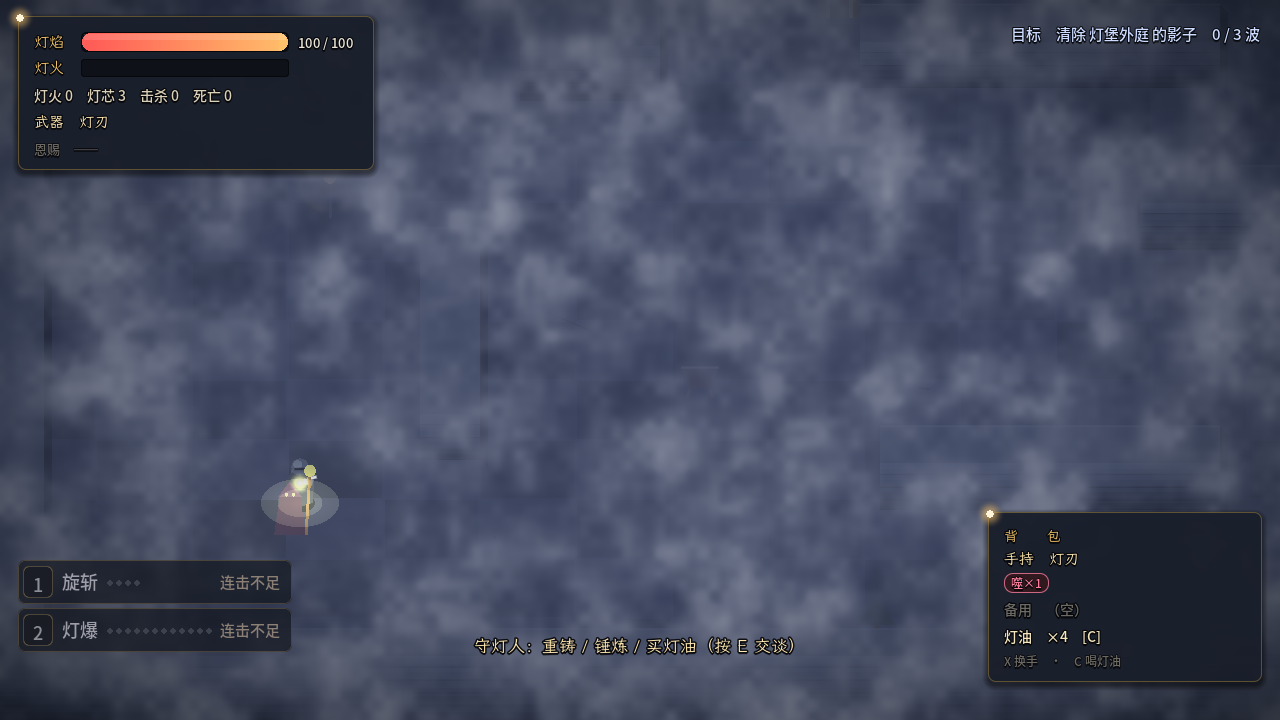
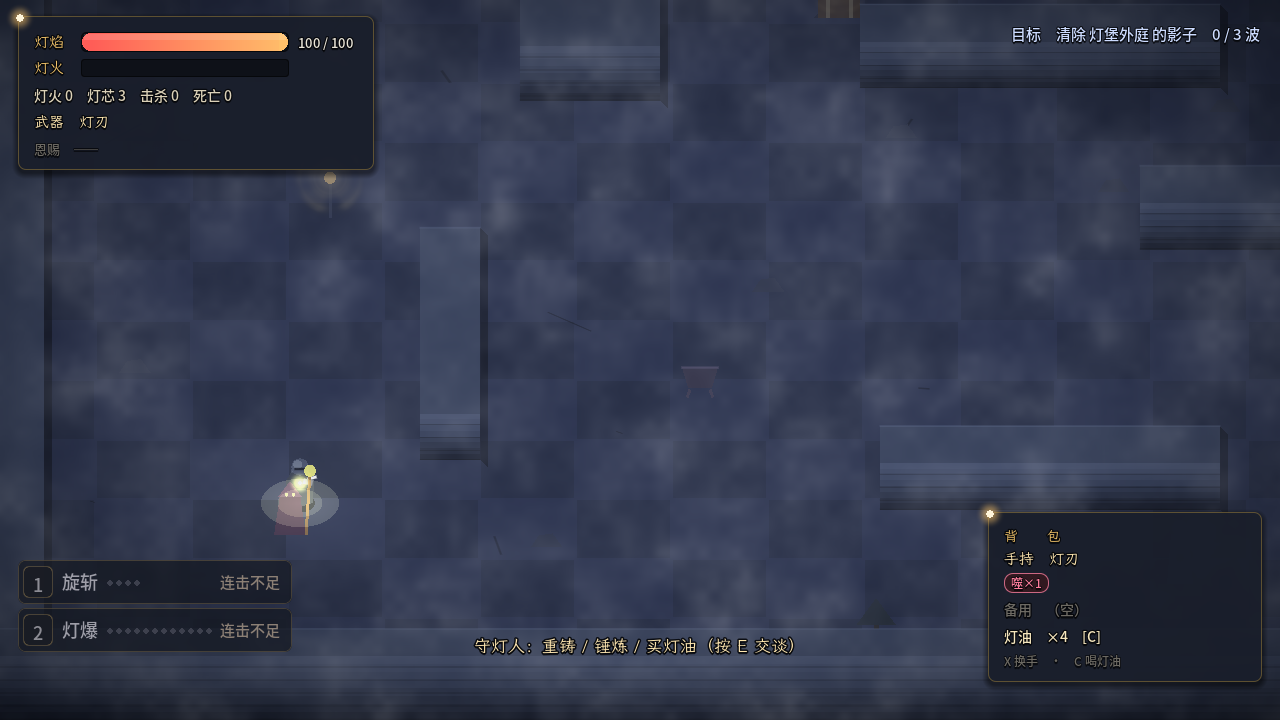
feat(godot): 迷雾调淡到 α=0.45，让灯照不到的地形重新读得出来
用户要「改淡一点，让地形可见」。这次没再拿眼睛试，而是先把这个数**量成一条曲线**再挑。

做法：**冻结世界 + 同一帧只拧一个 uniform**。世界本来就是纯手动推进的
（`main.manual = true` 时 `_process` 直接返回，只有 `advance()` 推步），
所以只要不调 `_pump()`、只改 `mist_max` 再重绘，逐像素上除雾浓之外没有第二个变量。
取样 0.30/0.40/0.45/0.50/0.60/0.70/0.85（连同已有的 1.00 与关雾），
临时插在 `_section_fog_night()` 里、取完图 `git checkout` 撤掉，探针代码不进提交。

同一块无 HUD / 无玩家光晕的地面（关雾为基线 42.5 / 3.90）：

  α      均值   局部对比度   与关雾图的高频相关性
  0      42.5   3.90(100%)   1.00
  0.40   62.1   2.78(71%)    0.93
  0.45   64.6   2.67(68%)    0.91   ← 取这里
  0.50   67.1   2.54(65%)    0.87
  0.60   72.0   2.38(61%)    0.79
  0.70   76.9   2.28(58%)    0.68
  1.00   91.2   2.21(57%)    0.23

两个结论：
1. **曲线在 0.70 以上是平的** —— 1.00 → 0.70 只买回 1% 的对比度，均值却从 91 掉到 77。
   也就是说"淡一点"如果只淡到 0.70，等于白改；有响应的是 0.45~0.50。
   → 调连续参数前先确认**它在这个区间才有响应**。
2. **指标选错会得出相反结论**：上一轮用的"局部对比度"会被雾**自己的**絮状纹理抬高 ——
   α=1.0 时还剩 57%，看着像"地形留了一半"，其实全是雾的絮。
   换成「雾开/雾关两张图**同一块高频分量**的相关性」之后判据才对：1.0 → 0.23、0.45 → 0.91。
   → 问"地形还剩多少"，参照物必须是**同一像素上的地形**。

全屏均值：关雾 0.158 → 开雾 0.2189（α=1.0 那轮是 0.2925）。
副产物：`night_delta_fog_on` 从 0.0086 回到 0.0363 —— 雾不那么遮夜色了；
这条口径本来就已与雾浓解耦，所以断言不用跟着动。

验证：
- 自检 358/358，errors 0，连跑两遍 report.json 逐字节相同
  （新基线 md5 8368deda0f49b1ef7a08fbd637377c60）
- 变异 25/25 全部符合预期（改的是常量，25 条预期不变）
- shots/21-fog-off.png **没有变化**（逐字节相同）—— 因为它走的是 `visible=false` 那条路，
  与 mist_max 无关；这条本身也是"只拧了一个变量"的旁证。

顺带修注释口径：selfcheck 里"雾拉到 1.0 之后…"那段注释改成与雾浓解耦的说法，
tools/godot-lightknight.sh 的头部⑦与汇总行同步（"最浓"→ α 取自报告）。

文档：godot-lightknight/README.md 二.14.3 的"雾浓"一节整体换成上面这张曲线表
[…]

diff --git a/godot-lightknight/README.md b/godot-lightknight/README.md
@@ -811,17 +811,17 @@ cm.color = NIGHT_MIN.lerp(Color(1.0, 1.0, 1.0), t)
 
 | | 关雾 | 开雾 |
 | --- | --- | --- |
-| 第一关出生点（雾 0.40 时） | 0.1580 | 0.2121 |
-| 第一关出生点（**雾拉满 1.0 之后**） | 0.1580 | **0.2925** |
+| 第一关出生点（雾 **α=0.45**，当前） | 0.1580 | **0.2189** |
+| 第一关出生点（雾 α=1.0 时，留作对照） | 0.1580 | 0.2925 |
 | 三关各自 | 0.16 / 0.14 / 0.12（一关更比一关黑） | — |
 
 断言是**两头卡**的：`> 0.05`（不是纯黑）且 `< 0.45`（没亮成白天）。
 `shots/21-fog-off.png` 是关雾的样子：地砖的缝、墙的顶面与南立面、脚下的暖光池都看得清，
 但整体是冷的、暗的——"看得清地形"和"这是晚上"同时成立。
 
-⚠ 注意后来雾被拉满（见 14.3 末尾）之后，**"地图可见"这一半主要是雾在扛**：
-关雾时全屏均值只有 0.158，是雾把它抬到 0.293 的。所以这两件事要分开看 ——
-雾一关，画面立刻回到"偏暗"。两头的界限仍然卡得住（0.293 < 0.45），但离上限只剩 0.16。
+⚠ 注意**"地图可见"这一半主要是雾在扛**：关雾时全屏均值只有 0.158，是雾把它抬到 0.219
+（α=1.0 那轮甚至到 0.293）。所以这两件事要分开看 —— 雾一关，画面立刻回到"偏暗"。
+不过两头的界限仍然卡得住，而且比 α=1.0 时宽裕（0.219 距上限 0.45 还有 0.23）。
 
 #### 14.3 迷雾：自己算的，不是 Light2D
 
@@ -855,7 +855,7 @@ cm.color = NIGHT_MIN.lerp(Color(1.0, 1.0, 1.0), t)
 
 ```
 灯下揭示度 0.996（1 = 雾全散）      满雾格 3528/3600
-同一像素：没照到的地方 0.1526 -> 0.2058（有雾）    灯下 0.5640 -> 0.5618（几乎不动）
+同一像素：没照到的地方 0.1526 -> 0.2126（有雾）    灯下 0.5640 -> 0.5614（几乎不动）
 墙挡散雾（两点到灯**同距** 240px）：空地 0.555  墙后 0.000  墙前 0.968
 雾回填：灯还照着 0.555 → 不再照到 0.475 → 0.5 秒后 0.000
 挥击散雾：正南 250px 0.000 → 0.434
@@ -869,26 +869,49 @@ cm.color = NIGHT_MIN.lerp(Color(1.0, 1.0, 1.0), t)
 「雾回填」是那条尾巴：`target` 是"这一刻该多亮"（瞬间归零），`reveal` 是"画面上现在多亮"
 （按每秒 1.6 慢慢掉）。于是灯扫过去会留下一道**正在合拢**的痕迹，而不是"啪"地糊回来。
 
-**雾的浓淡（`MIST_MAX`）最后定在满格 1.0 —— 是用户要求的"最浓"。**
-这个数一路是 0.58 → 0.40 → 1.0，每次都是被**画面对不对**推着走的：
+**雾的浓淡（`MIST_MAX`）当前是 0.45，这个数是量出来的。**
+它一路是 0.58 → 0.40 → 1.0 → 0.45，每次都被"画面对不对"推着走；
+但**最后一次不是拍脑袋，是一张曲线**：
 
-```
-MIST_MAX = 0.40（中间稿）  看得到地形，但"灯下散开"不够戏剧化
-MIST_MAX = 1.0 （现在）    雾是真的雾了，代价见下
-```
+做法是"**冻结世界、同一帧只拧 `mist_max` 这一个 uniform**"。世界本来就是纯手动推进的
+（`main.manual = true` 时 `_process` 直接返回，只有 `advance()` 会推步），
+所以改完 shader 参数**只等重绘、不推进世界** —— 逐像素上除雾浓之外没有第二个变量。
+这就是下面的表为什么可信：它不是"看起来差不多"，是**单变量前后对照**。
 
-代价量得很清楚（同一块没有 HUD、没有玩家光晕的地面，PIL 量的）：
+取样块：一块没有 HUD、没有玩家光晕的地面。第三列是把"雾开 / 雾关"两张图的
+**同一块高频分量**（各自减去 8px 均值滤波）拿来做相关 —— 雾关那张就是基线地形。
 
-| | 均值 | 局部对比度 |
-| --- | --- | --- |
-| 关雾 | 42.5 | 3.90 |
-| 雾 0.40 | 62.2（+46%） | 2.78（−29%） |
-| **雾 1.0** | **91.2（+115%）** | **2.21（−43%）** |
+| α | 地面均值 | 局部对比度（vs 关雾） | **与关雾图的高频相关性** |
+| --- | --- | --- | --- |
+| 0（关雾） | 42.5 | 3.90（100%） | 1.00 |
+| 0.30 | 57.1 | 3.05（78%） | 0.96 |
+| 0.40 | 62.1 | 2.78（71%） | 0.93 |
+| **0.45（当前）** | **64.6** | **2.67（68%）** | **0.91** |
+| 0.50 | 67.1 | 2.54（65%） | 0.87 |
+| 0.60 | 72.0 | 2.38（61%） | 0.79 |
+| 0.70 | 76.9 | 2.28（58%） | 0.68 |
+| 1.00 | 91.2 | 2.21（57%） | **0.23** |
 
-也就是说：**雾拉满之后，灯照不到的地方地形基本看不见了**（地砖缝、墙的轮廓都被雾吃掉），
-屏幕上只剩"灯照到的那一圈是清的"。这是"最浓"的定义使然，不是 bug ——
-`KIND_SCALE.player = 0.82` 仍然留着那圈柔边，所以"雾退到哪儿为止"还看得见。
-想要"浓但有地形"的话，`0.55 ~ 0.65` 是那个折中点。
+⚠ **最后那一列才是"地形还剩多少"，中间那列不是。** 局部对比度会被雾**自己的**
+絮状纹理抬高：α=1.0 时它还剩 57%，看着像"地形留了一半"，其实那 57% 全是雾的絮 ——
+与关雾图的相关性只剩 **0.23**，地形边缘基本没了。相关性只问一件事：
+**屏幕上这些细节里，有多少还是原来的地形。**
+
+⚠ 曲线**在 0.70 以上就是平的**：1.00 → 0.70 只买回 1% 的对比度，均值却从 91 掉到 77
+（画面明显变暗）—— 那就是"淡了，但地形照样看不清"。真正把地形找回来的是
+**0.45 ~ 0.50**（相关性 0.87 ~ 0.91）。**所以"淡一点"得淡过这个拐点才有意义。**
+
+三轮的来龙去脉（每一轮都留了代价）：
+
+- **0.58**（第一版，当时只有两层噪声）：没被照亮的地方是一整块灰板，地砖缝与墙轮廓全糊掉；
+- **0.40**：用户要"地图可见（但像晚上）" → 地形回来了，但"雾"的存在感偏弱；
+- **1.00**：用户要**最浓** → 满格。代价就是上表最后一列：**灯照不到的地方只剩 0.23 的地形**，
+  屏幕上只有"灯照到的那一圈是清的"（`KIND_SCALE.player = 0.82` 留了柔边，
+  所以"雾退到哪儿为止"仍看得见）；
+- **0.45**：用户要"淡一点，让地形可见" → 相关性回到 **0.91**，而均值 64.6 仍是关雾的 1.5 倍，
+  雾摆在那儿是看得出来的。
+
+想再调就改 `src/fog.gd` 的 `MIST_MAX` 一个数，然后按 14.3 这张表对照着挑。
 
 #### 14.4 这段的断言（28 条，每一条都能单独失败）
 
@@ -940,7 +963,8 @@ MIST_MAX = 1.0 （现在）    雾是真的雾了，代价见下
    对照还在，判据才立得住。
    （写这个度量时自己踩了一下：第一趟统计有效样本、第二趟忘了跳过越界占位符，
    于是"有效差异数"超过了"有效对数"，吐出 101.6% 这种不可能的值。**这类指标要能自证**。）
-4. **雾的浓淡是拿眼睛调的**。第一版 `MIST_MAX = 0.58`，测出来"雾让画面变亮了 0.053"
+4. **雾的浓淡：第一版是拿眼睛调的，最后一版是量出来的（而且中途换过一次指标）**。
+   第一版 `MIST_MAX = 0.58`，测出来"雾让画面变亮了 0.053"
    一切正常 —— 但人眼看过去，没被照亮的地方被压成了**一整块灰板**，
    地砖的缝、墙的轮廓全糊掉，而用户要的是"地图**可见**"。
    于是降到 **0.40**，并把**倍频噪声从两层加到三层**（原来噪声格又大又少，看着就是一块灰板）。
@@ -949,11 +973,15 @@ MIST_MAX = 1.0 （现在）    雾是真的雾了，代价见下
    **均值 42.5 → 62.2（亮 46%），而局部对比度（与 8px 均值滤波之差的标准差）3.90 → 2.78（−29%）**。
    也就是说雾是"**提亮但压平**"：地板更亮了，地砖缝却更糊。
    净效果对"可见"是正的（提亮前那块地只有 42/255，绑定约束是亮度不是对比度），
-   但这是**权衡**不是纯赚 —— 所以 `MIST_MAX` 这个数**要么拿眼睛定、要么拿这条指标定**，
-   只看"全屏均值涨了"会得出"雾越多越好"的错误结论。
-   **最后用户要"最浓"，所以定在满格 1.0**：均值 **91.2（+115%）、局部对比度 2.21（−43%）**。
-   这条曲线第一次把"最浓"的代价变成了可读的数：**灯照不到的地方，地形基本看不见了**。
-   （0.55~0.65 是"浓但还看得见地形"的折中点，写在 14.3。）
+   但这是**权衡**不是纯赚 —— 只看"全屏均值涨了"会得出"雾越多越好"的错误结论。
+   后来用户先要"最浓"（1.0）、再要"淡一点，让地形可见"（0.45），于是干脆把它
+   **一次量成一条曲线**（冻结世界、同一帧只拧一个 uniform，表见 14.3）：
+   均值 42.5（关雾）/ 64.6（0.45）/ 91.2（1.0）。
+   这里**真正的收获是换掉了指标**：一开始用的是"局部对比度"，而它会被雾**自己的**
+   絮状纹理抬高 —— α=1.0 时还剩 57%，看着像"地形留了一半"，其实全是雾的絮。
+   换成本文的"与关雾图的**高频相关性**"之后，"地形还剩多少"才有判据：
+   1.0 → **0.23**、0.45 → **0.91**。**同一个量，指标选错会得出相反结论** ——
+   指标必须能回答你真正问的那个问题。
 5. **一条"没牙"的断言是靠变异测试才暴露的**，而且它和"雾拉满"是同一个坑的两半。
    "夜色"最初只有两条断言：`mean > 0.05` / `mean < 0.45`。变异 `夜色永远压到最暗一档`
    （把 `t` 写死成 0）**跑出来 0 条变红**。查下来不是补丁打歪了，是**命题本身错了**：
@@ -971,9 +999,10 @@ MIST_MAX = 1.0 （现在）    雾是真的雾了，代价见下
    差一点又要把阈值从 0.02 调到 0.005（这正是要避免的那种修法）。
    → 正确的修法是**关雾再量**：量哪一层，就把别层冻住（同 14.3 里 `set_fog_enabled(false)`
    那条规矩）。关雾后 0.1580 → **0.0986**，差 0.059，判据重新立住。
-   雾开着时的那个 0.0086 不删、改成**只记进报告不断言**的样本
-   （`night_delta_fog_on`）—— 因为它说明了一件真实的事：
-   **雾拉满之后，夜色在观感上已经被雾盖住了**，这是"最浓"的必然结果，不是缺陷。
+   雾开着时的那个差值不删、改成**只记进报告不断言**的样本（`night_delta_fog_on`）——
+   因为它说明了一件真实的事：**雾会吃掉一部分夜色**（α=1.0 时只剩 0.0086，
+   现在 α=0.45 是 0.0363）。那是雾浓这个参数的直接后果，不该让"夜色接没接上"跟着失效。
+   好处是**这条口径从此与雾浓解耦**：以后再怎么改 `MIST_MAX`，它都不需要跟着调。
 
 五、还没做的部分
 --------------------------------------------------------------------

diff --git a/.workbuddy/memory/DETAIL-godot.md b/.workbuddy/memory/DETAIL-godot.md
@@ -15,7 +15,7 @@
 
 ## 一键脚本 / 当前基线（tools/）
 - `tools/godot-lightknight.sh` — 完整自检 **358/358**，rc=0，连跑两遍 `report.json`
-  **逐字节相同**，基线 md5 `f1afc1cefbf99d830d9ec22896cbb6dd`。**全程约 30 秒**；
+  **逐字节相同**，基线 md5 `8368deda0f49b1ef7a08fbd637377c60`（雾 0.45 后）。**全程约 30 秒**；
   跑两分钟以上通常是卡 400s 超时（脚本没起来），先 grep `SCRIPT ERROR|Parse Error`。
 - `tools/godot-mutate.py` — 变异测试 **25 个**。备份 `~/.cache/dq-mutate/src.bak`。
   ⚠ **刻意不用 `rmtree`**（沙箱批量删除保护会拦 → 还原失败、坏源码留盘），用
@@ -125,13 +125,30 @@
   三层倍频噪声雾絮。视线用**射线扇**（192 条/盏 × `Proj.ray_rect_dist` slab 法）。
   `World.step()` 里调（固定步长，雾絮时间取自 `world.time` → 漂动也可复现），每 0.05s 重建；
   有开关 `set_fog_enabled`；`KIND_SCALE` 给每类灯开雾半径系数（玩家 0.82）；
-  `MIN_OPENER_R` / `OPENER_MAX=10`；**`MIST_MAX = 1.0`**（用户要"最浓"；中间稿是 0.40）。
+  `MIN_OPENER_R` / `OPENER_MAX=10`；**`MIST_MAX = 0.45`**（用户先后要过"最浓"1.0 与
+  "淡一点、让地形可见"，最后量成 0.45 —— 见下面的曲线）。
   清关 `disperse()/reset_fade()/tick_fade()` 走 `World.tick_fx`。
-  ⚠ **雾是"提亮但压平"**（PIL 量的，`21-fog-off` vs `02-level1-start`，同一块没有 HUD /
-  没有玩家光晕的地面）：关雾 均值 42.5 / 局部对比度 3.90；**雾 0.40 → 62.2 / 2.78**；
-  **雾 1.0 → 91.2 / 2.21（均值 +115%、对比度 −43%）**。
-  → **拉满之后灯照不到的地方地形基本看不见**，屏幕上只剩灯照的那一圈是清的；
-  `KIND_SCALE.player = 0.82` 保留柔边所以"雾退到哪儿"仍可见。0.55~0.65 是折中点。
+- ⚠ **雾浓这个数是量出来的，而且"淡一点"必须淡过拐点**。做法：**冻结世界**
+  （`main.manual=true` 时 `_process` 直接返回，只有 `advance()` 推步）**+ 同一帧只拧
+  `mist_max` 一个 uniform**，所以逐像素只有雾浓一个变量。同一块无 HUD / 无玩家光晕的地面：
+
+  | α | 均值 | 局部对比度(vs 关雾) | **与关雾图的高频相关性** |
+  | --- | --- | --- | --- |
+  | 0(关雾) | 42.5 | 3.90(100%) | 1.00 |
+  | 0.40 | 62.1 | 2.78(71%) | 0.93 |
+  | **0.45(现在)** | **64.6** | **2.67(68%)** | **0.91** |
+  | 0.60 | 72.0 | 2.38(61%) | 0.79 |
+  | 0.70 | 76.9 | 2.28(58%) | 0.68 |
+  | 1.00 | 91.2 | 2.21(57%) | **0.23** |
+
+  - **曲线在 0.70 以上是平的**：1.00 → 0.70 只买回 1% 对比度，均值却从 91 掉到 77
+    → "淡一点"只淡到 0.70 等于白改；有响应的是 **0.45~0.50**。
+  - ⚠ **指标选错会得出相反结论**：局部对比度会被雾**自己的**絮状纹理抬高
+    （α=1.0 还剩 57%，看着像"地形留了一半"，其实全是雾的絮）。
+    要问"地形还剩多少"，得拿**雾关那张图的同一块高频分量**做相关：
+    1.0 → **0.23**、0.45 → **0.91**。
+- **取样手法**（可复用）：临时在 `_section_fog_night()` 里插一段循环取图（探针代码
+  `git checkout` 撤掉、不进提交），图另存 `~/.cache/dq-mist/`（下次自检会 `rm -rf shots/`）。
 - ⚠ **迷雾的坐标系 ≠ 灯光层**（真 bug）：`LightRig`/`Bloom` 的 `position` 是
   `cam_offset(...)`（它们的局部空间是"世界坐标投影过来的"），迷雾照抄了这句，
   但它是**屏幕空间** → 矩形被搬出屏幕，**只有 ~53% 屏幕被雾盖住**且是照亮场的错位切片。

diff --git a/.workbuddy/memory/MEMORY.md b/.workbuddy/memory/MEMORY.md
@@ -27,7 +27,7 @@
 
 ## 当前基线
 - `tools/godot-lightknight.sh` — 自检 **358/358**，约 30 秒，连跑两遍 `report.json`
-  **逐字节相同**（md5 `f1afc1cefbf99d830d9ec22896cbb6dd`）。超过两分钟没好通常是脚本
+  **逐字节相同**（md5 `8368deda0f49b1ef7a08fbd637377c60`，雾 0.45 后）。超过两分钟没好通常是脚本
   没起来，先 grep `SCRIPT ERROR|Parse Error`。
   ⚠ **rc=1 不等于断言红** —— 必须单独看 `report.json.errors`。
   ⚠ **别在测试跑的时候改脚本/源码**（它会反复调用自检，中途改会污染整轮结果）。
